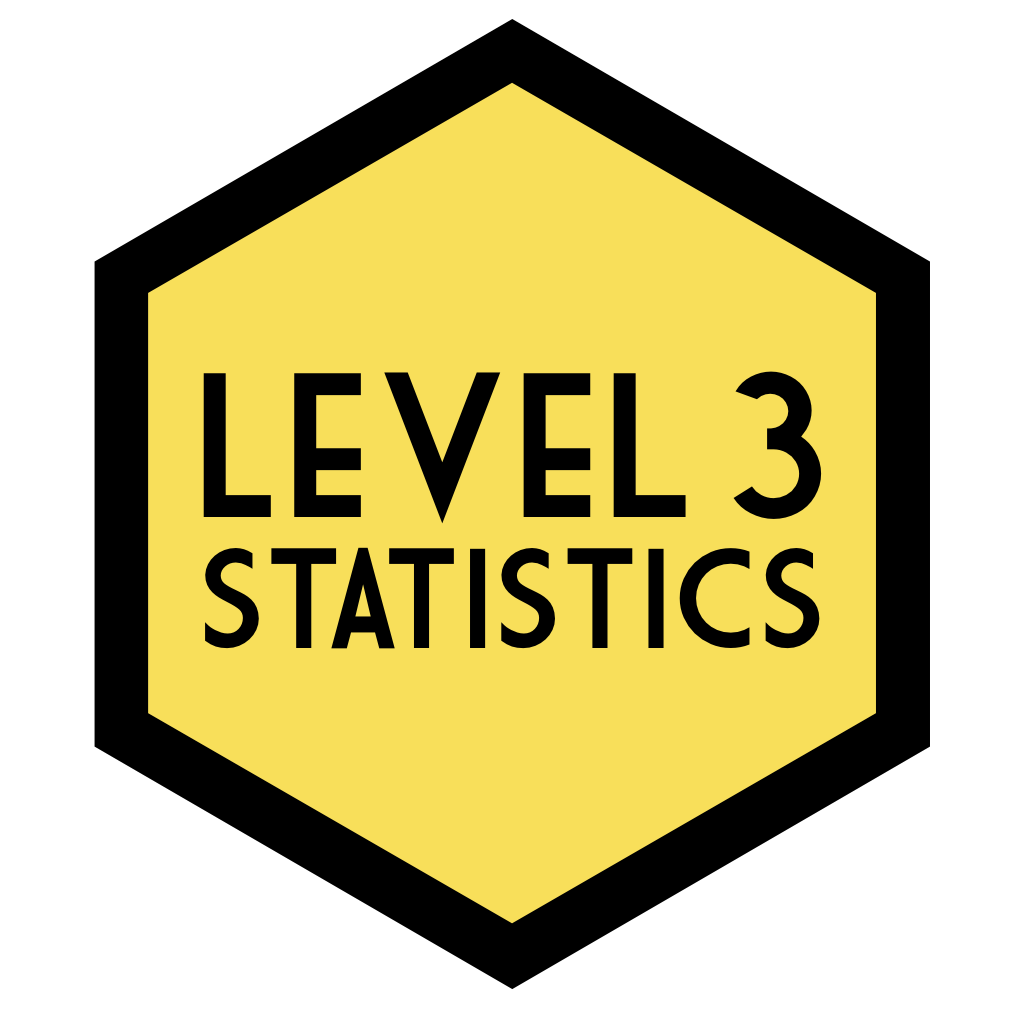
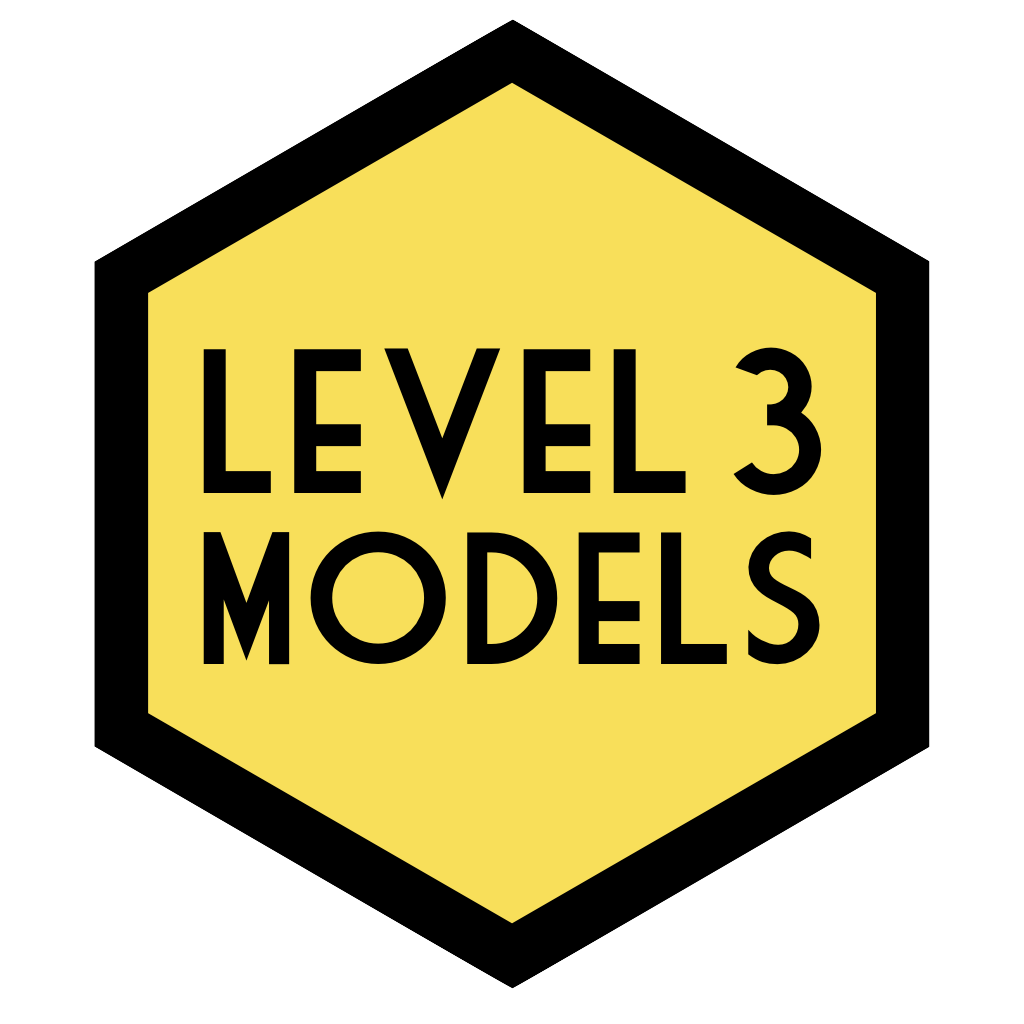
Update L3 course

Changed region(s): [[0.1875, 0.3438, 0.8125, 0.6562], [0.1875, 0.3438, 0.2188, 0.375]]

diff --git a/docs/index.html b/docs/index.html
@@ -339,7 +339,7 @@ $(document).ready(function () {
 </div>
 <div id="level-3-statistics" class="section level3">
 <h3><a href="/ug3-stats/">Level 3 Statistics</a></h3>
-<p>Our level 3 course covers statistical techniques in more detail, including the GLM and linear mixed effects models.</p>
+<p>This course teaches students how to specify, estimate, and interpret statistical models corresponding to various study designs, using a General Linear Models approach.</p>
 <p><br><a class="logo" href="/msc-conv-f2f/"><img  src="img/msc_conv.png"></p>
 </div>
 <div id="msc-conversion" class="section level3">
